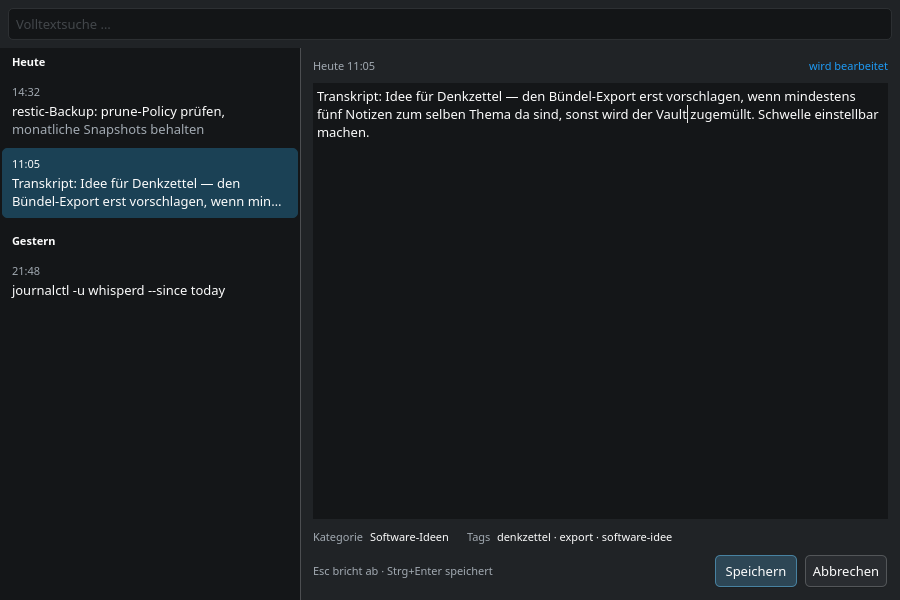
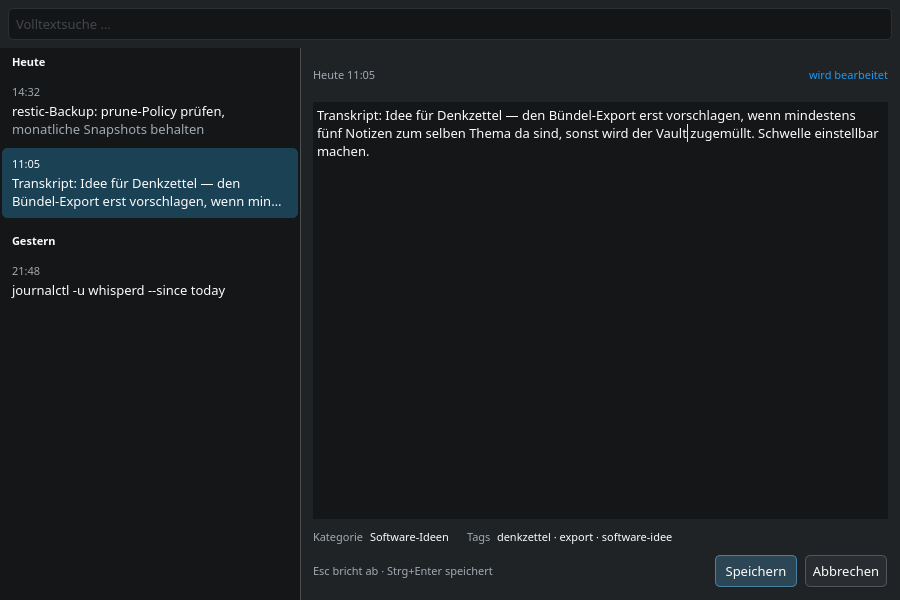
Belege S8: Bilder nach der Heilung neu erzeugt, Symbolgrenze vermerkt (#11)
Die vier Dev-Bilder zeigen den geheilten Stand: gleiche Texthöhe in Bild 01
und 02, der neue Dialogsatz in Bild 03.

Die Symbole der Dialogknöpfe zeigt diese Bildstrecke nicht. Gemessen am
02.08.2026, offscreen wie auf der echten Wayland-Sitzung: Das Symbolthema löst
sich dem Namen nach zu „breeze-dark“ auf, QIcon::fromTheme() liefert darunter
trotzdem null. Weder ein zusätzlicher Suchpfad noch ein erzwungener
Themenname hat daran etwas geändert — beide sind deshalb wieder draußen; ein
erzwungener Name hätte nur ein Bild erzeugt, das mehr behauptet als diese
Maschine zeigt. Dass die Knöpfe Symbole anfordern, hält der Test.

Die Grenze steht als Vermerk im Bildlauf und in LIESMICH.md, damit sie
jemandem auffällt, der einen Bildlauf mit auflösendem Symbolthema fahren kann.

Changed region(s): [[0.3422, 0.09, 0.9956, 0.27]]

diff --git a/tests/editshots.cpp b/tests/editshots.cpp
@@ -4,6 +4,7 @@
 
 #include <QApplication>
 #include <QDir>
+#include <QIcon>
 #include <QLineEdit>
 #include <QListView>
 #include <QMessageBox>
@@ -178,6 +179,15 @@ int main(int argc, char **argv)
     const QApplication app(argc, argv);
     QCoreApplication::setApplicationName(QStringLiteral("denkzettel"));
 
+    // Note on the symbols of the guard dialog (finding 5 of the UI review):
+    // this bench cannot show them. Measured on 02.08.2026, offscreen and on a
+    // real Wayland session alike: the icon theme resolves by name to
+    // „breeze-dark“, and `QIcon::fromTheme()` still comes back null under it —
+    // so the dialog is drawn with bare buttons here. That the buttons ask for
+    // symbols is held by `namesTheThreeAnswersOfTheGuardDialog` in
+    // `librarytest`, which names an icon theme of its own. Neither a search
+    // path nor a forced theme name changed anything here; forcing one would
+    // only produce a picture that claims more than this machine shows.
     if (argc < 2) {
         qFatal("Aufruf: editshots <Zielverzeichnis>");
     }

diff --git a/docs/scrum/reviews/sprint-04-s8-bearbeiten/LIESMICH.md b/docs/scrum/reviews/sprint-04-s8-bearbeiten/LIESMICH.md
@@ -39,6 +39,34 @@ zwischen den Serien vergleichbar bleiben.
   (AK 8) — das hält der Test `putsTheCursorAtTheEndWithoutSelectingTheText`,
   nicht dieses Bild.
 
+## Stand nach dem UI-Review vom 02.08.2026
+
+Die Bilder sind nach der Heilung der fünf Befunde neu erzeugt. Sichtbar
+geändert gegenüber der ersten Fassung:
+
+- Der Notiztext **springt nicht mehr**, wenn zwischen Lesen und Bearbeiten
+  gewechselt wird (Befund 1): Bild 01 und 02 setzen ihn auf dieselbe Höhe.
+- Beim Auswahlwechsel bleibt die **bearbeitete Notiz hervorgehoben**, während
+  der Dialog nach ihr fragt (Befund 2).
+- Der Dialogsatz lautet jetzt „Die bearbeitete Notiz (Heute 11:05) hat
+  ungespeicherte Änderungen. …“ (Befund 3).
+- Das ruhende Suchfeld trägt eine Kurzhilfe (Befund 4) — im Bild nicht zu
+  sehen, weil eine Kurzhilfe erst beim Zeigen erscheint; sie hängt am Test
+  `saysWhyTheSearchFieldRestsWhileEditing`.
+
+**Grenze dieser Bildstrecke (Befund 5):** Die Symbole der Dialogknöpfe sind
+gesetzt (`KStandardGuiItem`), **aber auf dieser Maschine nicht darstellbar**.
+Gemessen am 02.08.2026, offscreen wie auf der echten Wayland-Sitzung: Das
+Symbolthema löst sich dem Namen nach zu „breeze-dark“ auf, `QIcon::fromTheme()`
+liefert darunter trotzdem `null` — die Knöpfe in Bild 03 bleiben deshalb blank.
+Dass die Knöpfe Symbole **anfordern**, hält der Test
+`namesTheThreeAnswersOfTheGuardDialog`, der ein eigenes Symbolthema benennt und
+drei verschiedene, nicht leere Symbolnamen misst. Weder ein zusätzlicher
+Suchpfad noch ein erzwungener Themenname hat hier etwas geändert; ein
+erzwungener Name hätte nur ein Bild erzeugt, das mehr behauptet als diese
+Maschine zeigt. **Das gehört nachgeprüft, sobald jemand einen Bildlauf mit
+auflösendem Symbolthema fahren kann.**
+
 ## Was in M2 fehlt und kein Befund ist
 
 - **Kein Player** über dem Transkript (Wireframe 2a zeichnet ihn). Er kommt mit
